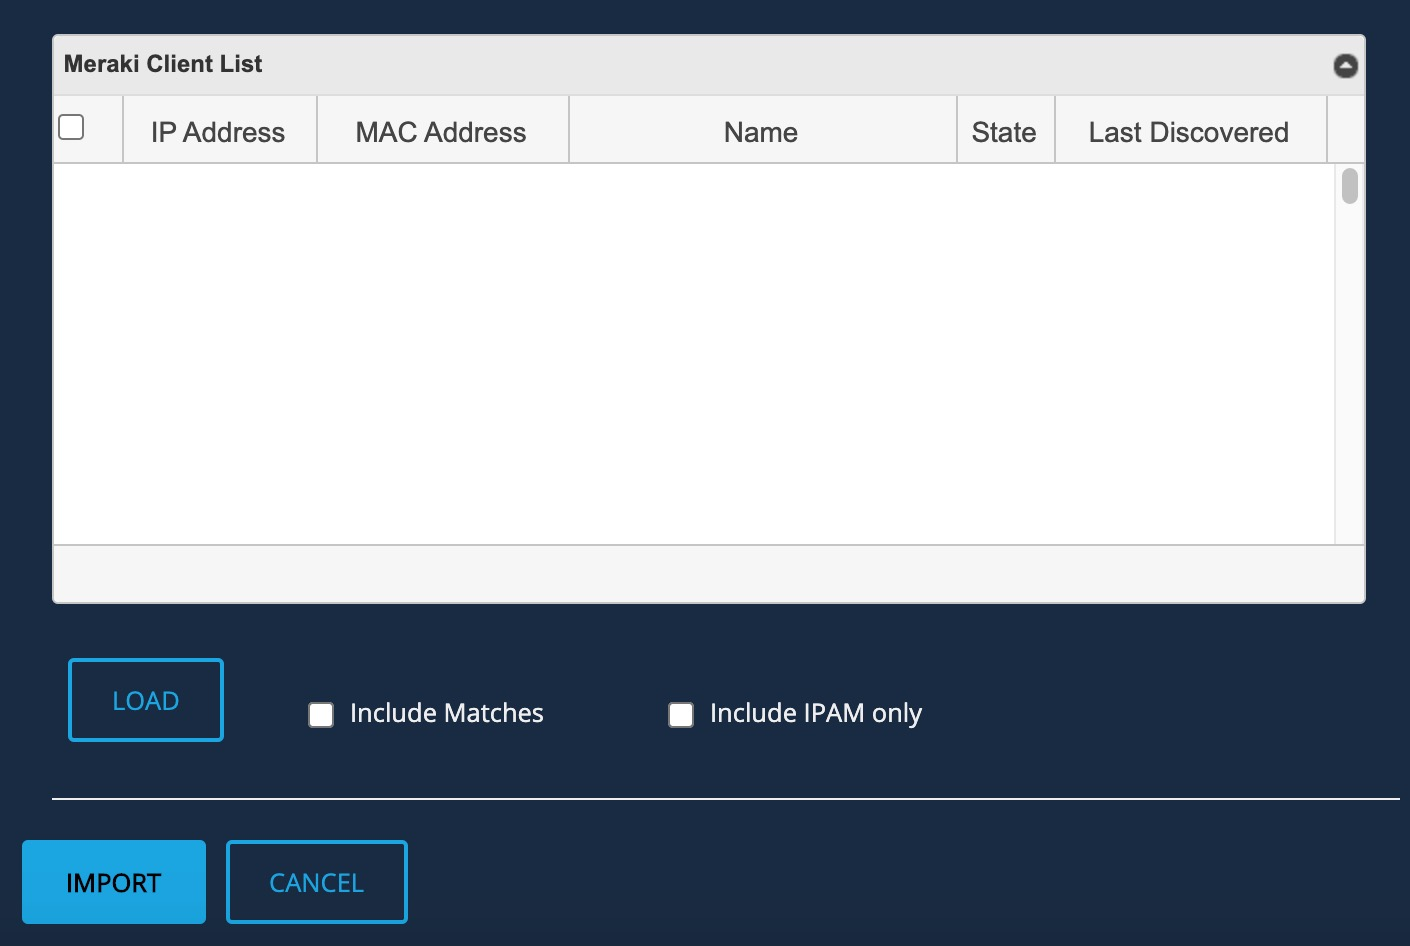
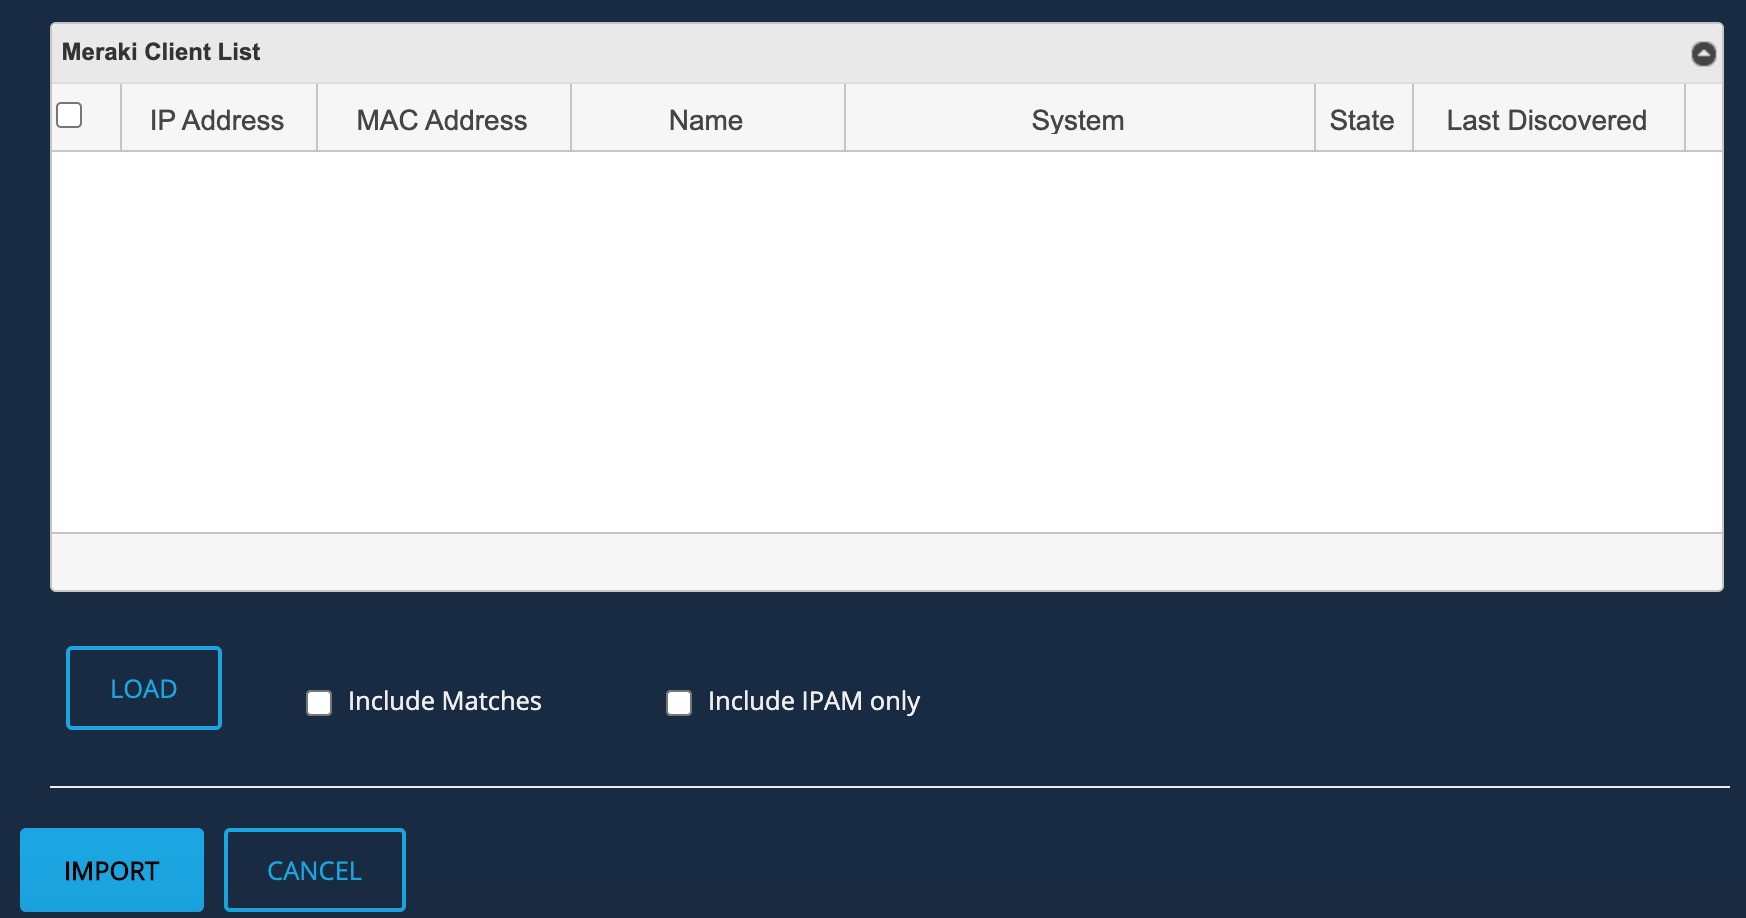
added new workflows

Changed region(s): [[0.0312, 0.0, 0.9986, 0.793], [0.0, 0.8845, 0.3121, 1.0], [0.0624, 0.8235, 0.9674, 0.854]]

diff --git a/Community/meraki_importer/README.md b/Community/meraki_importer/README.md
@@ -46,10 +46,27 @@ After downloading, extract the following three files: *"ui.jqgrid.css"*, *"jquer
 Copy the three files to `/portal/static/js/vendor/jqgrid/` inside the Bluecat Gateway container.  
 Make a new director `jqgrid` under `/portal/static/js/vendor/` if none exists.  
 
+4. **UDF**  
+This workflow requires the additional UDF to the MAC Address object in BAM.  
+Add the following UDF to the MAC Address object in BAM.  
+  - System  
+  Field Name: System    
+  Display Name: System   
+  Type: Text  
+  - Imported Source    
+  Field Name: ImportedSource
+  Display Name: Imported Source   
+  Type: Text  
+  - Detail Link  
+  Field Name: DetailLink
+  Display Name: Detail Link  
+  Type: URL
+
 
 ## Usage   
 1. **Setting Meraki Importer Parameters**  
-Click *"Cisco Meraki Configuration"* to open up parameter settings menu and set the following parameters.   
+Click the *"CISCO Meraki Configuration"* pull down menu to open up parameter settings.  
+Set the following parameters.   
 
     <img src = "img/meraki_importer1.jpg" width = "600px">  
 
@@ -125,6 +142,9 @@ The MAC Address of the loaded client.
 - Name  
 The host name of the loaded client (if exists).  
 
+- System  
+The device type of the loaded client (if exists).  
+
 - State  
 The IP address state of the loaded client.  
   + This icon ![screenshot](img/check.gif) represents the state **Matched**. When a client of this state is imported, it will not update the IP address and MAC address information in BlueCat Address Manager (since it is already a match) but will add additional information obtained by Meraki Dashboard.  
@@ -148,6 +168,9 @@ After thoroughly checking the state of the loaded clients, select the clients yo
 
     Click *IMPORT* to import data into BlueCat Address Manager.  
     By Clicking *CANCEL*, the whole list will be cleared.  
+
+    **DHCP leased IP addresses**  
+    If the imported IP address happens to be a DHCP leased IP address, then it will **NOT** update the IP address and MAC address information in BlueCat Address Manager and will only add additional information obtained by Meraki Dashboard.  
 
 4. **Checking imported information**  
 Once imported, check the device information in BlueCat Address Manager.  
